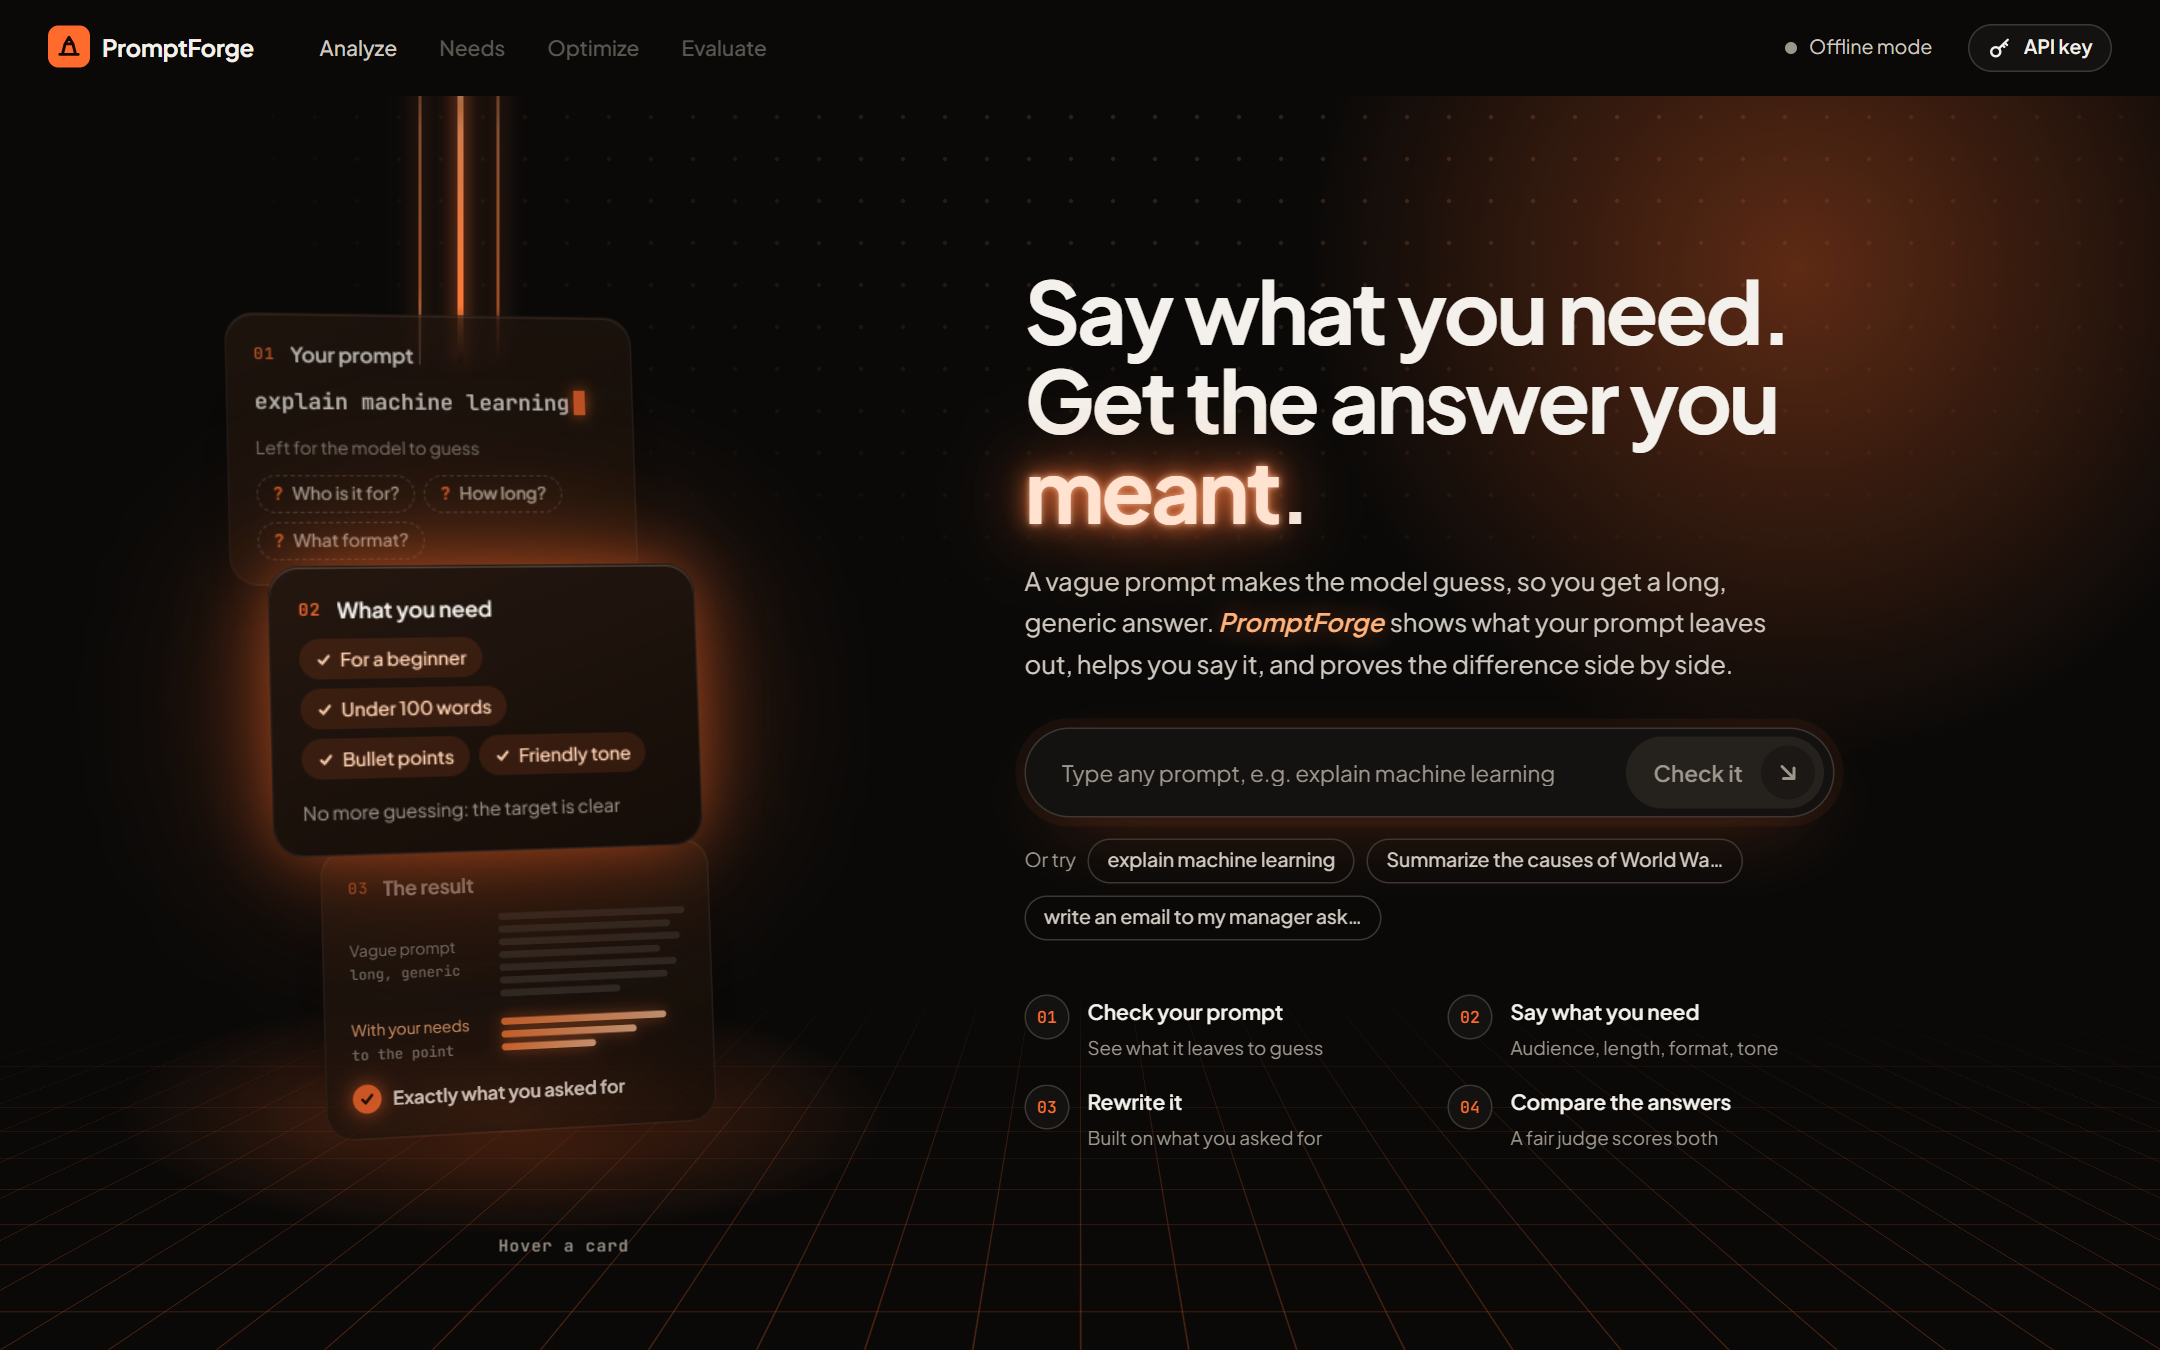
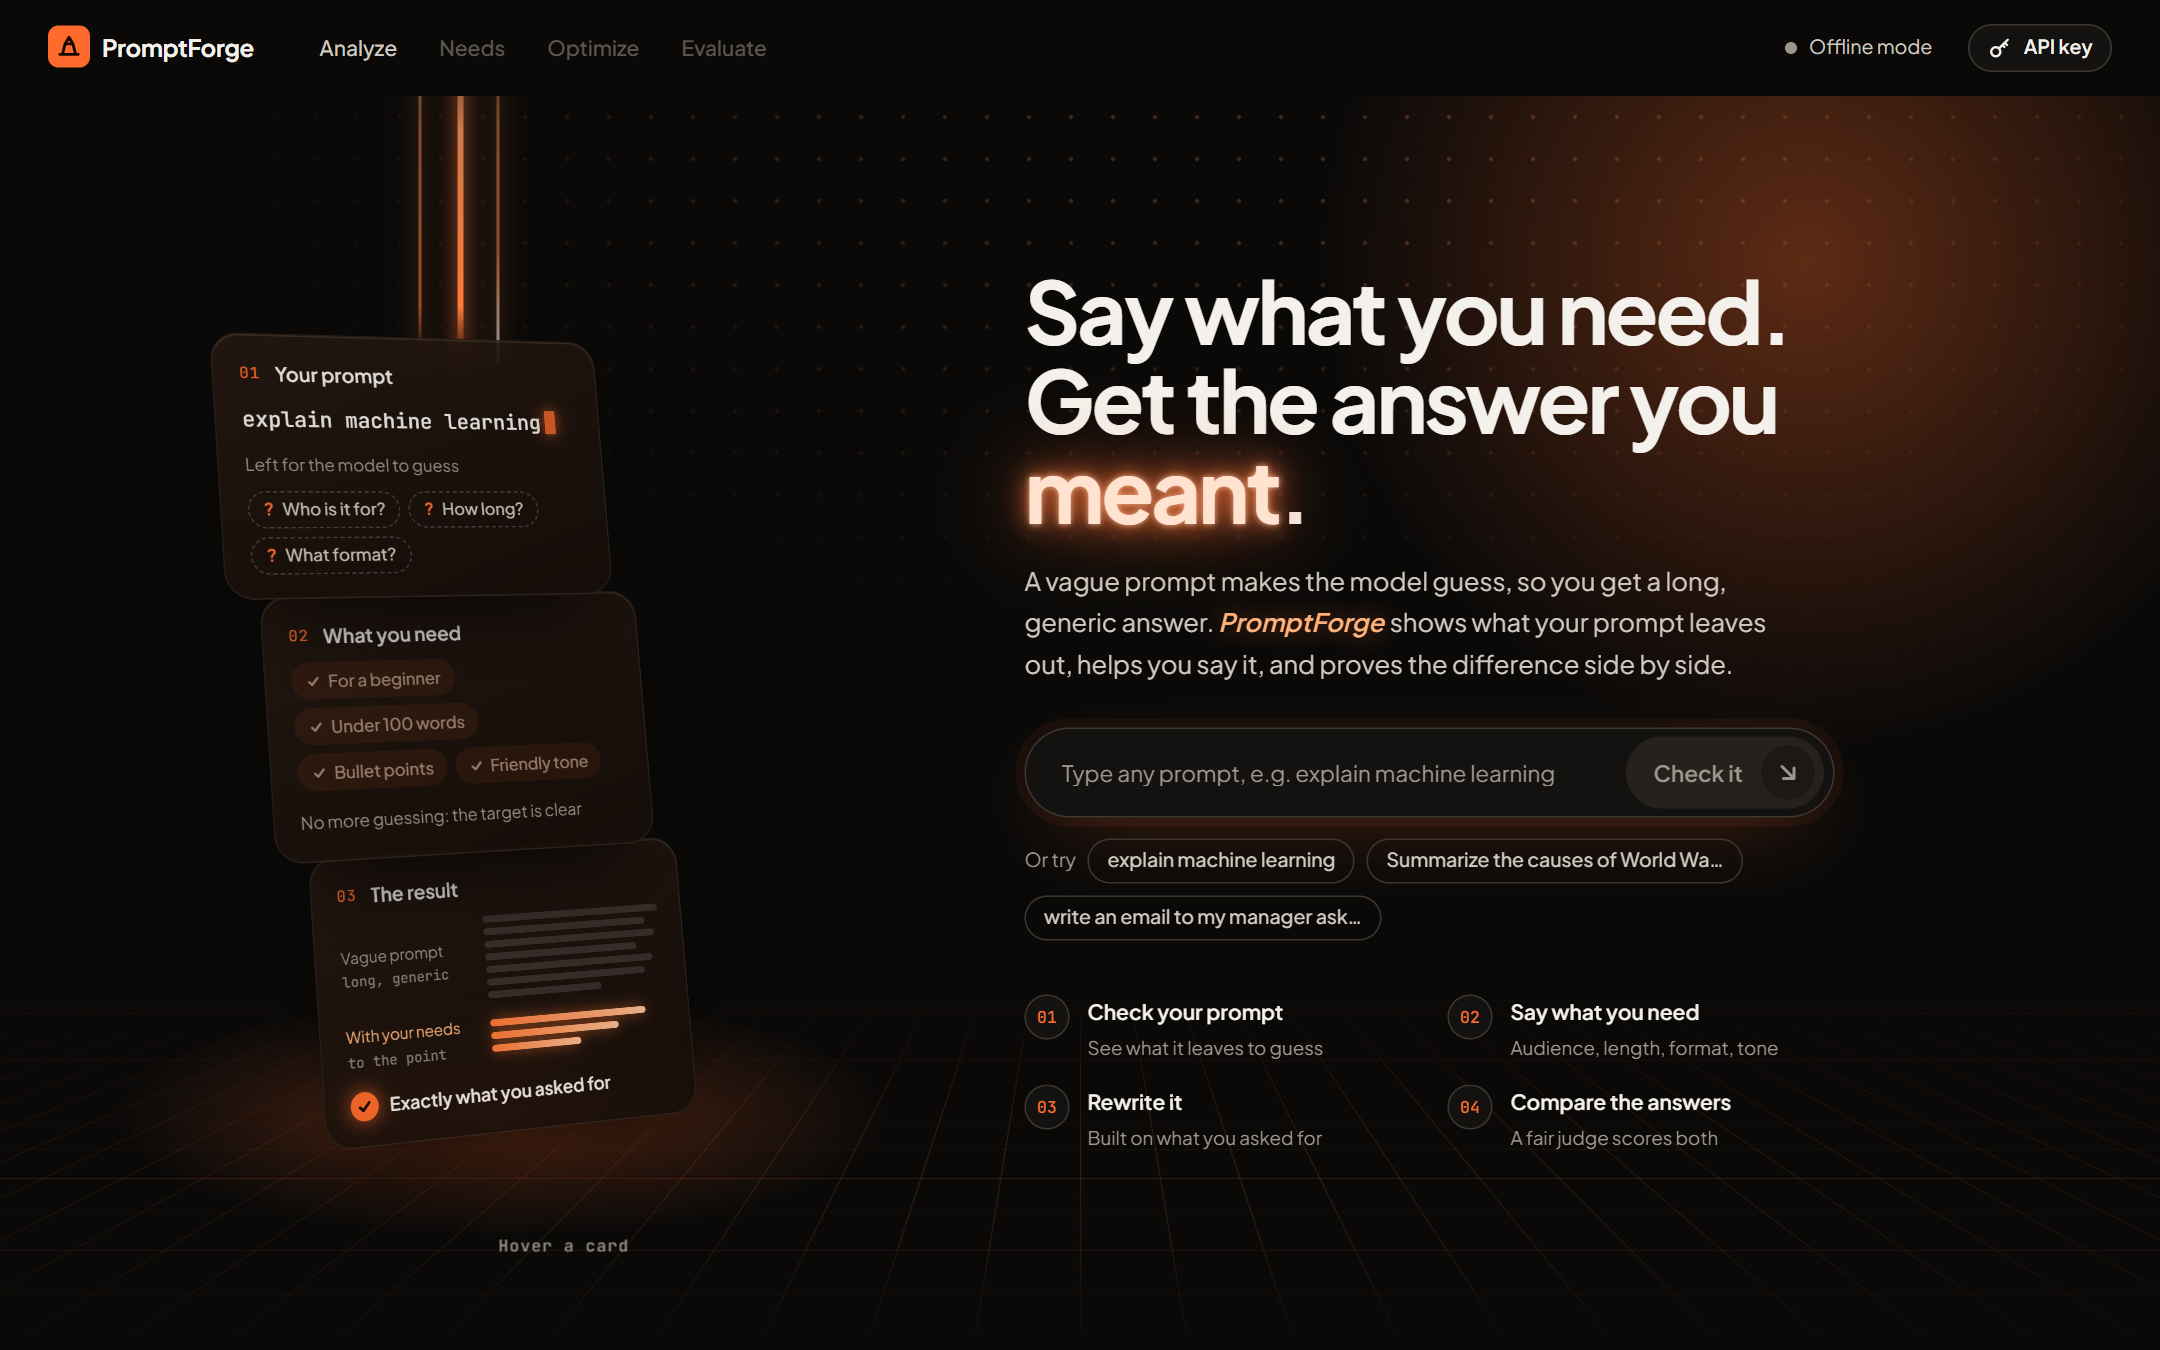
Hero: calm at rest, animate on hover, 3D scroll
- Cards no longer cycle on a timer: they bob gently at rest; only the
  hovered card comes forward, glows and plays its sheen, flicker, caret
  and line animations
- Dots stop twinkling and the continuous ripple is gone; the glow
  under the pointer stays
- Scroll drives the scene: the grid tilts, text and stack drift at
  different speeds, the glow sinks, and a progress line runs under the
  navigation bar (no fade-in on scroll)
- Text hover: headline words lift and glow, 'meant' burns brighter,
  PromptForge gets an animated underline, steps light up

Changed region(s): [[0.0931, 0.2489, 0.3722, 0.84]]

diff --git a/components/Hero.tsx b/components/Hero.tsx
@@ -35,16 +35,15 @@ export function Hero({
   demo: HeroDemo;
 }) {
   const [text, setText] = useState("");
-  const [auto, setAuto] = useState(0); // where the timed story is
   const [held, setHeld] = useState<number | null>(null); // card the visitor is pointing at
-  const active = held ?? auto;
+  const active = held; // cards rest (gently bobbing) until one is hovered
   const tiltRef = useRef<HTMLDivElement>(null);
   const inputRef = useRef<HTMLInputElement>(null);
   const heroRef = useRef<HTMLElement>(null);
   const skyIdle = useRef(0);
 
-  // The dotted sky reacts to the mouse: dots near the pointer light up and a
-  // ripple spreads from it. It settles shortly after the mouse stops moving.
+  // The dotted sky reacts to the mouse: dots near the pointer light up.
+  // It settles shortly after the mouse stops moving.
   function skyMove(e: React.PointerEvent<HTMLElement>) {
     const el = heroRef.current;
     if (!el || e.pointerType !== "mouse") return;
@@ -60,23 +59,33 @@ export function Hero({
     heroRef.current?.classList.remove("sky-on");
   }
 
-  // The cards take turns coming forward, telling the before-to-after story.
-  // While a card is held (hovered or focused) it stays in front; when the
-  // visitor leaves, the story carries on from that card.
+  // Scroll moves the scene: 0 at the top of the page, 1 once the hero has
+  // scrolled away. CSS turns it into parallax and a tilting grid.
   useEffect(() => {
-    if (held !== null || window.matchMedia("(prefers-reduced-motion: reduce)").matches) return;
-    const id = setInterval(() => setAuto((a) => (a + 1) % 3), 3000);
-    return () => clearInterval(id);
-  }, [held]);
+    const el = heroRef.current;
+    if (!el || window.matchMedia("(prefers-reduced-motion: reduce)").matches) return;
+    let raf = 0;
+    const update = () => {
+      raf = 0;
+      const p = Math.min(1, Math.max(0, window.scrollY / Math.max(1, el.offsetHeight)));
+      el.style.setProperty("--sp", p.toFixed(3));
+    };
+    const onScroll = () => {
+      if (!raf) raf = requestAnimationFrame(update);
+    };
+    update();
+    window.addEventListener("scroll", onScroll, { passive: true });
+    return () => {
+      window.removeEventListener("scroll", onScroll);
+      cancelAnimationFrame(raf);
+    };
+  }, []);
 
-  const heldRef = useRef<number | null>(null);
+  // A hovered or focused card comes forward and plays its animation.
   function hold(index: number) {
-    heldRef.current = index;
     setHeld(index);
   }
   function release() {
-    if (heldRef.current !== null) setAuto(heldRef.current);
-    heldRef.current = null;
     setHeld(null);
   }
 
@@ -118,7 +127,6 @@ export function Hero({
       <div className="hero3-bg" aria-hidden>
         <div className="sky" />
         <div className="sky-lit" />
-        <div className="sky-ripple" />
         <div className="sun" />
         <div className="floor" />
       </div>
@@ -197,10 +205,10 @@ export function Hero({
         </div>
 
         <div className="hero3-copy">
-          <h1>
-            Say what you need.
+          <h1 className="hw-line">
+            <Words text="Say what you need." />
             <br />
-            Get the answer you <span className="neon-word">meant</span>.
+            <Words text="Get the answer you" /> <span className="hw neon-word">meant</span>.
           </h1>
           <p className="lede">
             A vague prompt makes the model guess, so you get a long, generic answer. <em className="brand-em">PromptForge</em> shows what your prompt leaves out,
@@ -252,6 +260,21 @@ export function Hero({
   );
 }
 
+// Each headline word is its own hover target.
+function Words({ text }: { text: string }) {
+  const parts = text.split(" ");
+  return (
+    <>
+      {parts.map((w, i) => (
+        <span key={i}>
+          <span className="hw">{w}</span>
+          {i < parts.length - 1 ? " " : ""}
+        </span>
+      ))}
+    </>
+  );
+}
+
 function Card({
   index,
   active,
@@ -264,7 +287,7 @@ function Card({
   children,
 }: {
   index: number;
-  active: number;
+  active: number | null;
   step: string;
   title: string;
   hint: string;

diff --git a/app/globals.css b/app/globals.css
@@ -642,3 +642,68 @@ input.field.need-input { margin-top: 0; height: 40px; font-family: var(--sans); 
   mask-image: radial-gradient(circle at var(--mx) var(--my), transparent calc(var(--rr) - 34px), rgba(0, 0, 0, 0.9) var(--rr), transparent calc(var(--rr) + 34px));
 }
 .hero3.sky-on .sky-ripple { opacity: 1; }
+
+/* ---------- Calmer resting state; animation on hover ---------- */
+.sky { animation: none; opacity: 0.42; }
+.sky-ripple { display: none; }
+.stack { animation: none; }
+/* Cards bob gently at rest (independent "translate" so it composes with the 3D transform) */
+.card3 { opacity: 0.9; animation: bob 5.5s ease-in-out infinite; animation-delay: calc(var(--i) * -1.8s); }
+@keyframes bob { 0%, 100% { translate: 0 0; } 50% { translate: 0 -7px; } }
+.card3 .sheen { animation: none; opacity: 0; }
+.card3.active .sheen { opacity: 1; animation: sheen 2.4s ease-in-out infinite; }
+.c-pill.guess { animation: none; }
+.card3.active .c-pill.guess { animation: flicker 1.6s infinite; animation-delay: calc(var(--k) * 0.25s); }
+.caret { animation: none; opacity: 0.85; }
+.card3.active .caret { animation: blink 1s steps(1) infinite; }
+.stage.hovering .card3:not(.active) { opacity: 0.55; }
+
+/* ---------- Scroll: the scene moves in 3D as the hero scrolls away ---------- */
+.hero3 { --sp: 0; }
+.floor { transform: perspective(700px) rotateX(calc(58deg + var(--sp) * 16deg)) translateY(calc(var(--sp) * 40px)); }
+.sun { translate: 0 calc(var(--sp) * 160px); }
+.sky, .sky-lit { background-position: 0 calc(var(--sp) * -90px); }
+.stage { transform: translateY(calc(var(--sp) * 90px)); }
+.tilt { translate: 0 0; rotate: x calc(var(--sp) * 14deg); }
+.hero3-copy { transform: translateY(calc(var(--sp) * -50px)); }
+.nbeam { translate: 0 calc(var(--sp) * -80px); }
+
+/* Scroll progress line under the navigation bar */
+.nav { position: sticky; }
+.nav::after {
+  content: ""; position: absolute; left: 0; bottom: -1px; height: 2px;
+  width: calc(var(--page-sp, 0) * 100%);
+  background: linear-gradient(90deg, #ff7a36, #ffc195);
+  box-shadow: 0 0 10px rgba(255, 107, 44, 0.8);
+}
+
+/* ---------- Text reacts to hover ---------- */
+.hw { display: inline-block; transition: transform 0.3s var(--ease), color 0.3s, text-shadow 0.3s; }
+.hw:hover { transform: translateY(-5px); color: #fff; text-shadow: 0 0 22px rgba(255, 120, 60, 0.6); }
+.hw.neon-word:hover {
+  animation: none;
+  text-shadow: 0 0 6px rgba(255, 210, 180, 1), 0 0 20px rgba(255, 120, 60, 1), 0 0 48px rgba(255, 107, 44, 0.9), 0 0 96px rgba(255, 107, 44, 0.6);
+}
+.brand-em { position: relative; transition: color 0.25s, text-shadow 0.25s; }
+.brand-em::after {
+  content: ""; position: absolute; left: 0; right: 0; bottom: -2px; height: 2px; border-radius: 2px;
+  background: linear-gradient(90deg, #ff7a36, #ffc195); box-shadow: 0 0 8px rgba(255, 107, 44, 0.8);
+  transform: scaleX(0); transform-origin: left; transition: transform 0.35s var(--ease);
+}
+.brand-em:hover { color: #ffd2b3; text-shadow: 0 0 18px rgba(255, 107, 44, 0.7); }
+.brand-em:hover::after { transform: scaleX(1); }
+.how3 li { transition: transform 0.25s var(--ease); }
+.how3 li:hover { transform: translateY(-3px); }
+.how3 .how-n { transition: background 0.25s, border-color 0.25s, box-shadow 0.25s, color 0.25s; }
+.how3 li:hover .how-n { background: var(--accent); border-color: var(--accent); color: var(--accent-ink); box-shadow: 0 0 18px rgba(255, 107, 44, 0.7); }
+.how3 li:hover b { color: #ffd2b3; }
+
+@media (prefers-reduced-motion: reduce) {
+  .card3, .card3.active .sheen, .card3.active .c-pill.guess { animation: none !important; }
+  .hw:hover, .how3 li:hover { transform: none; }
+}
+@media (max-width: 960px) {
+  .stage, .hero3-copy { transform: none; }
+}
+/* Blend the bottom of the hero into the page so the grid never ends in a hard line */
+.hero3::after { content: ""; position: absolute; left: 0; right: 0; bottom: 0; height: 140px; background: linear-gradient(to bottom, transparent, var(--bg)); pointer-events: none; z-index: 0; }

diff --git a/app/page.tsx b/app/page.tsx
@@ -89,7 +89,12 @@ export default function Home() {
     setUserKey(load(KEY_STORE, ""));
     setHistory(load(HISTORY_STORE, []));
     fetch("/api/status").then((r) => r.json()).then(setStatus).catch(() => setStatus({ serverKey: false, model: "" }));
-    const onScroll = () => setScrolled(window.scrollY > 8);
+    const onScroll = () => {
+      setScrolled(window.scrollY > 8);
+      // Page scroll progress drives the thin line under the navigation bar.
+      const max = document.documentElement.scrollHeight - window.innerHeight;
+      document.documentElement.style.setProperty("--page-sp", (max > 0 ? window.scrollY / max : 0).toFixed(4));
+    };
     onScroll();
     window.addEventListener("scroll", onScroll, { passive: true });
     return () => window.removeEventListener("scroll", onScroll);
